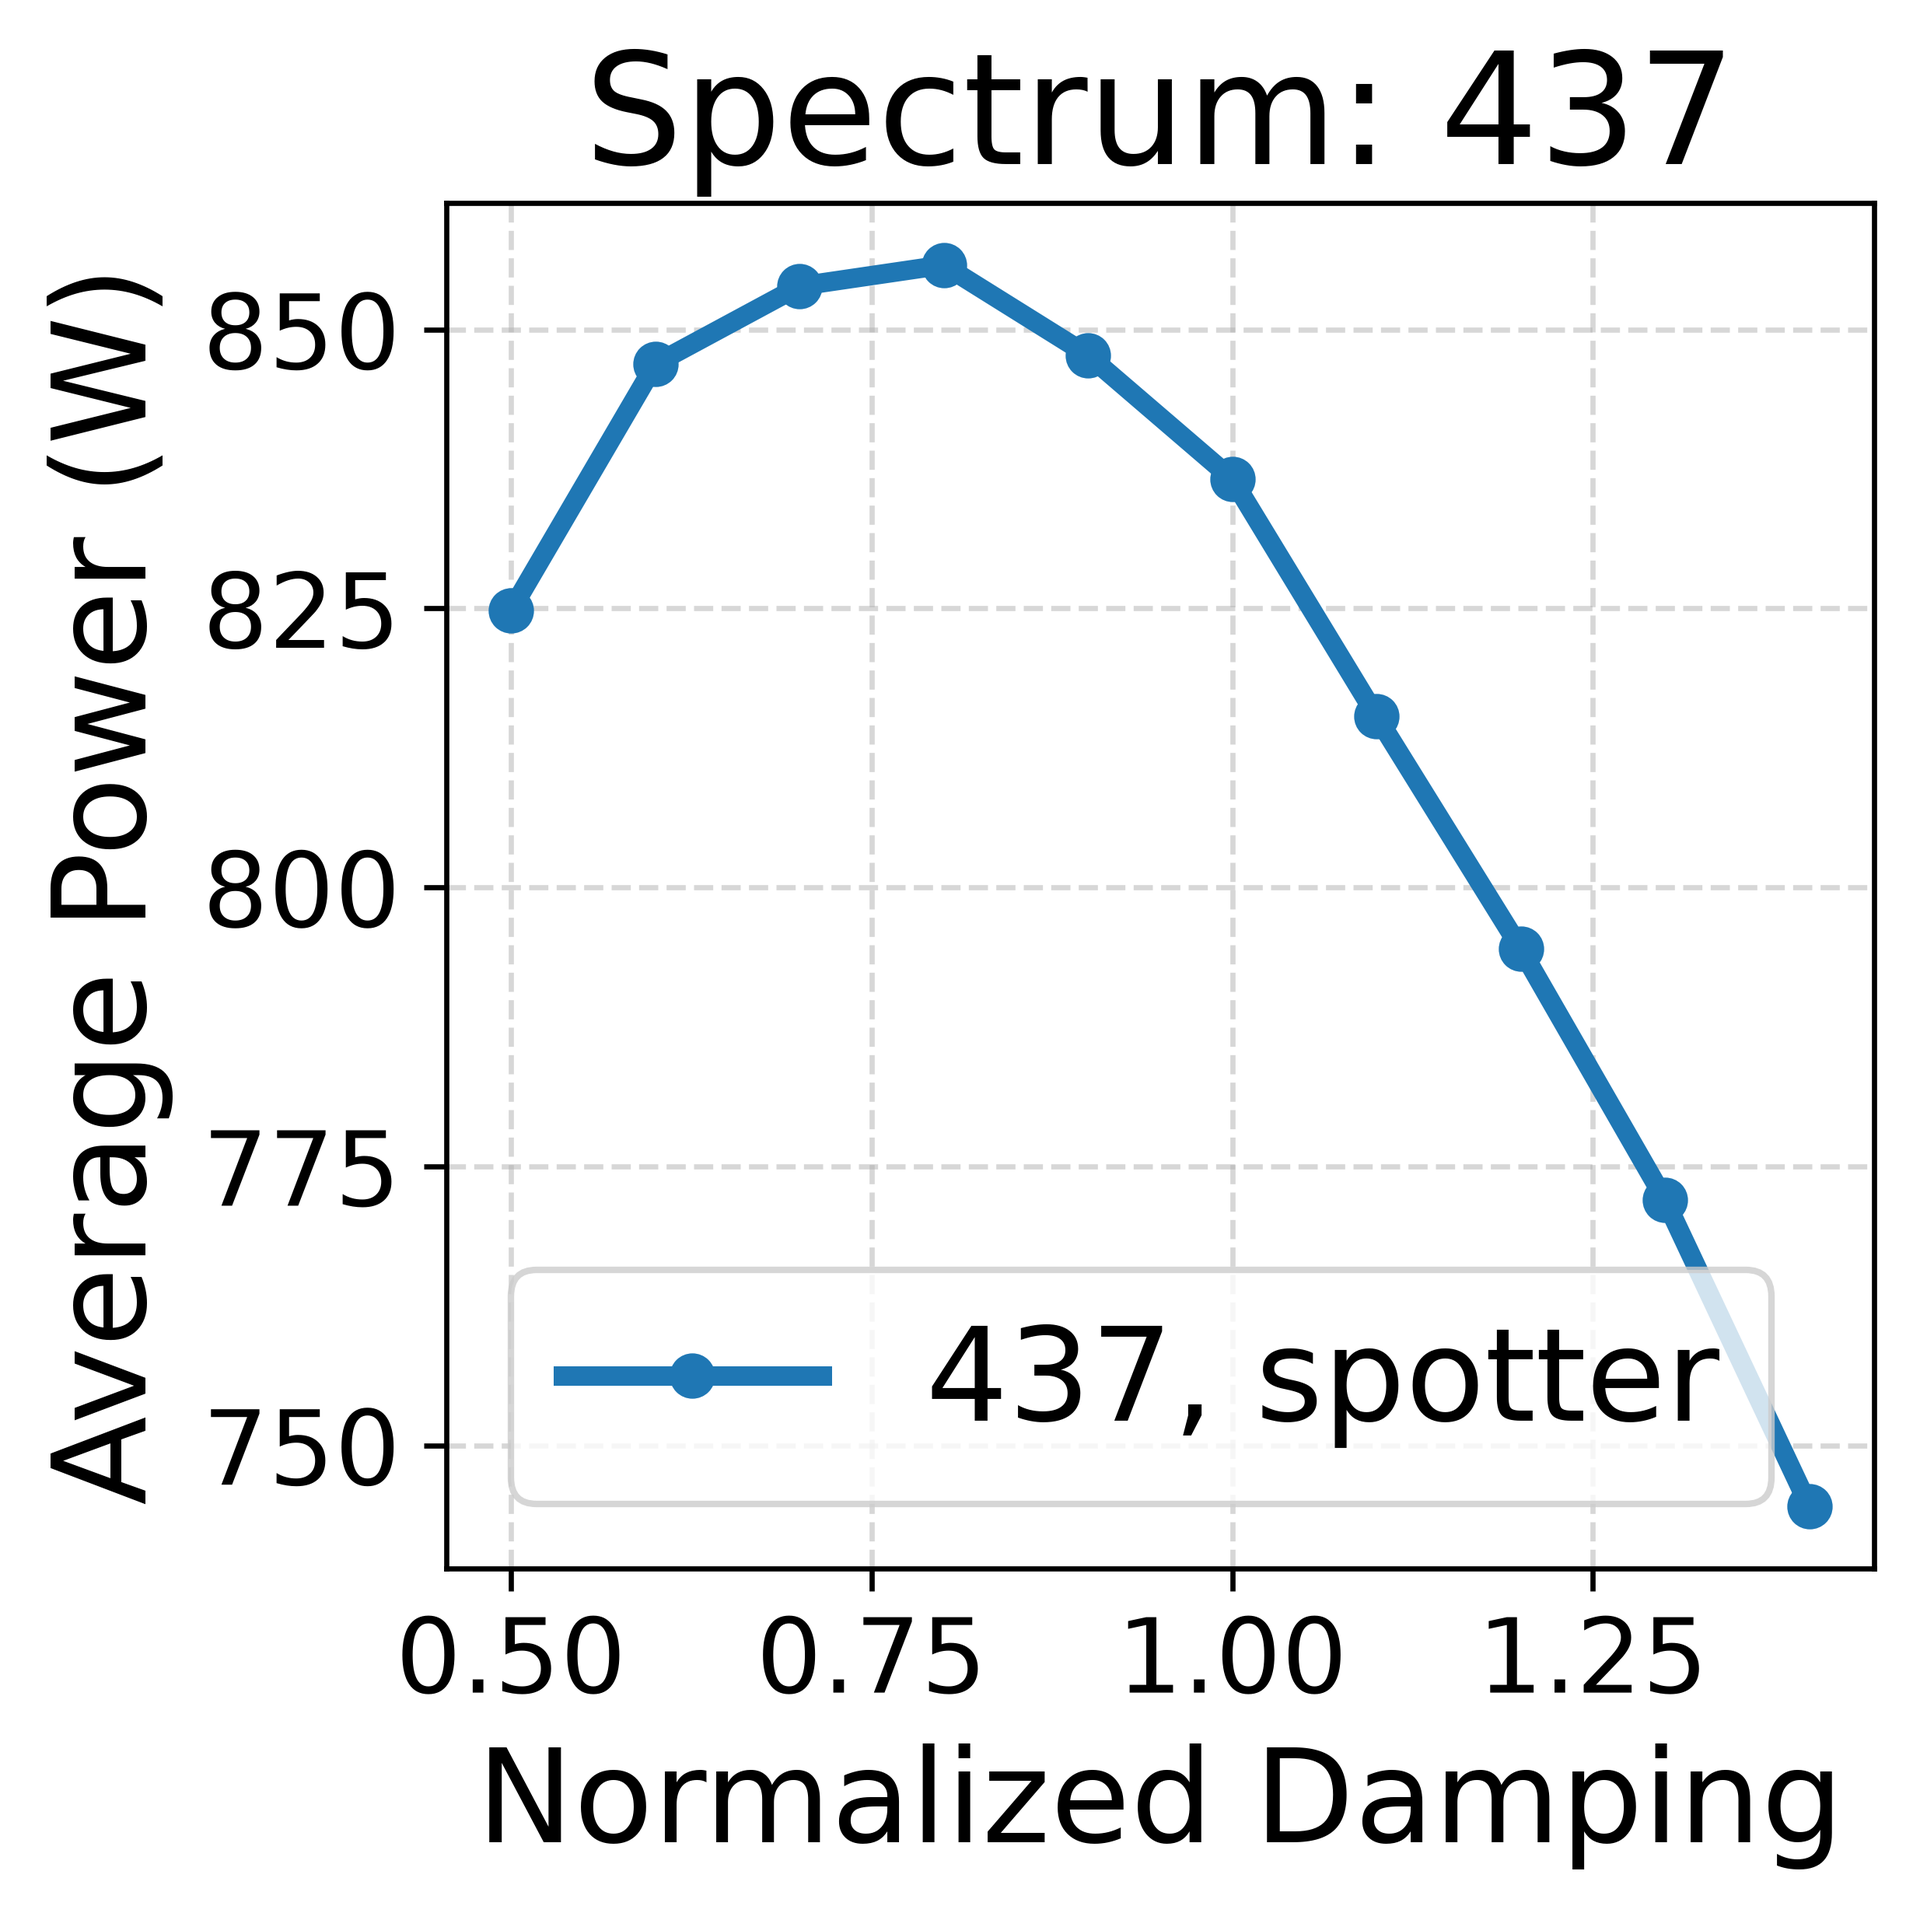
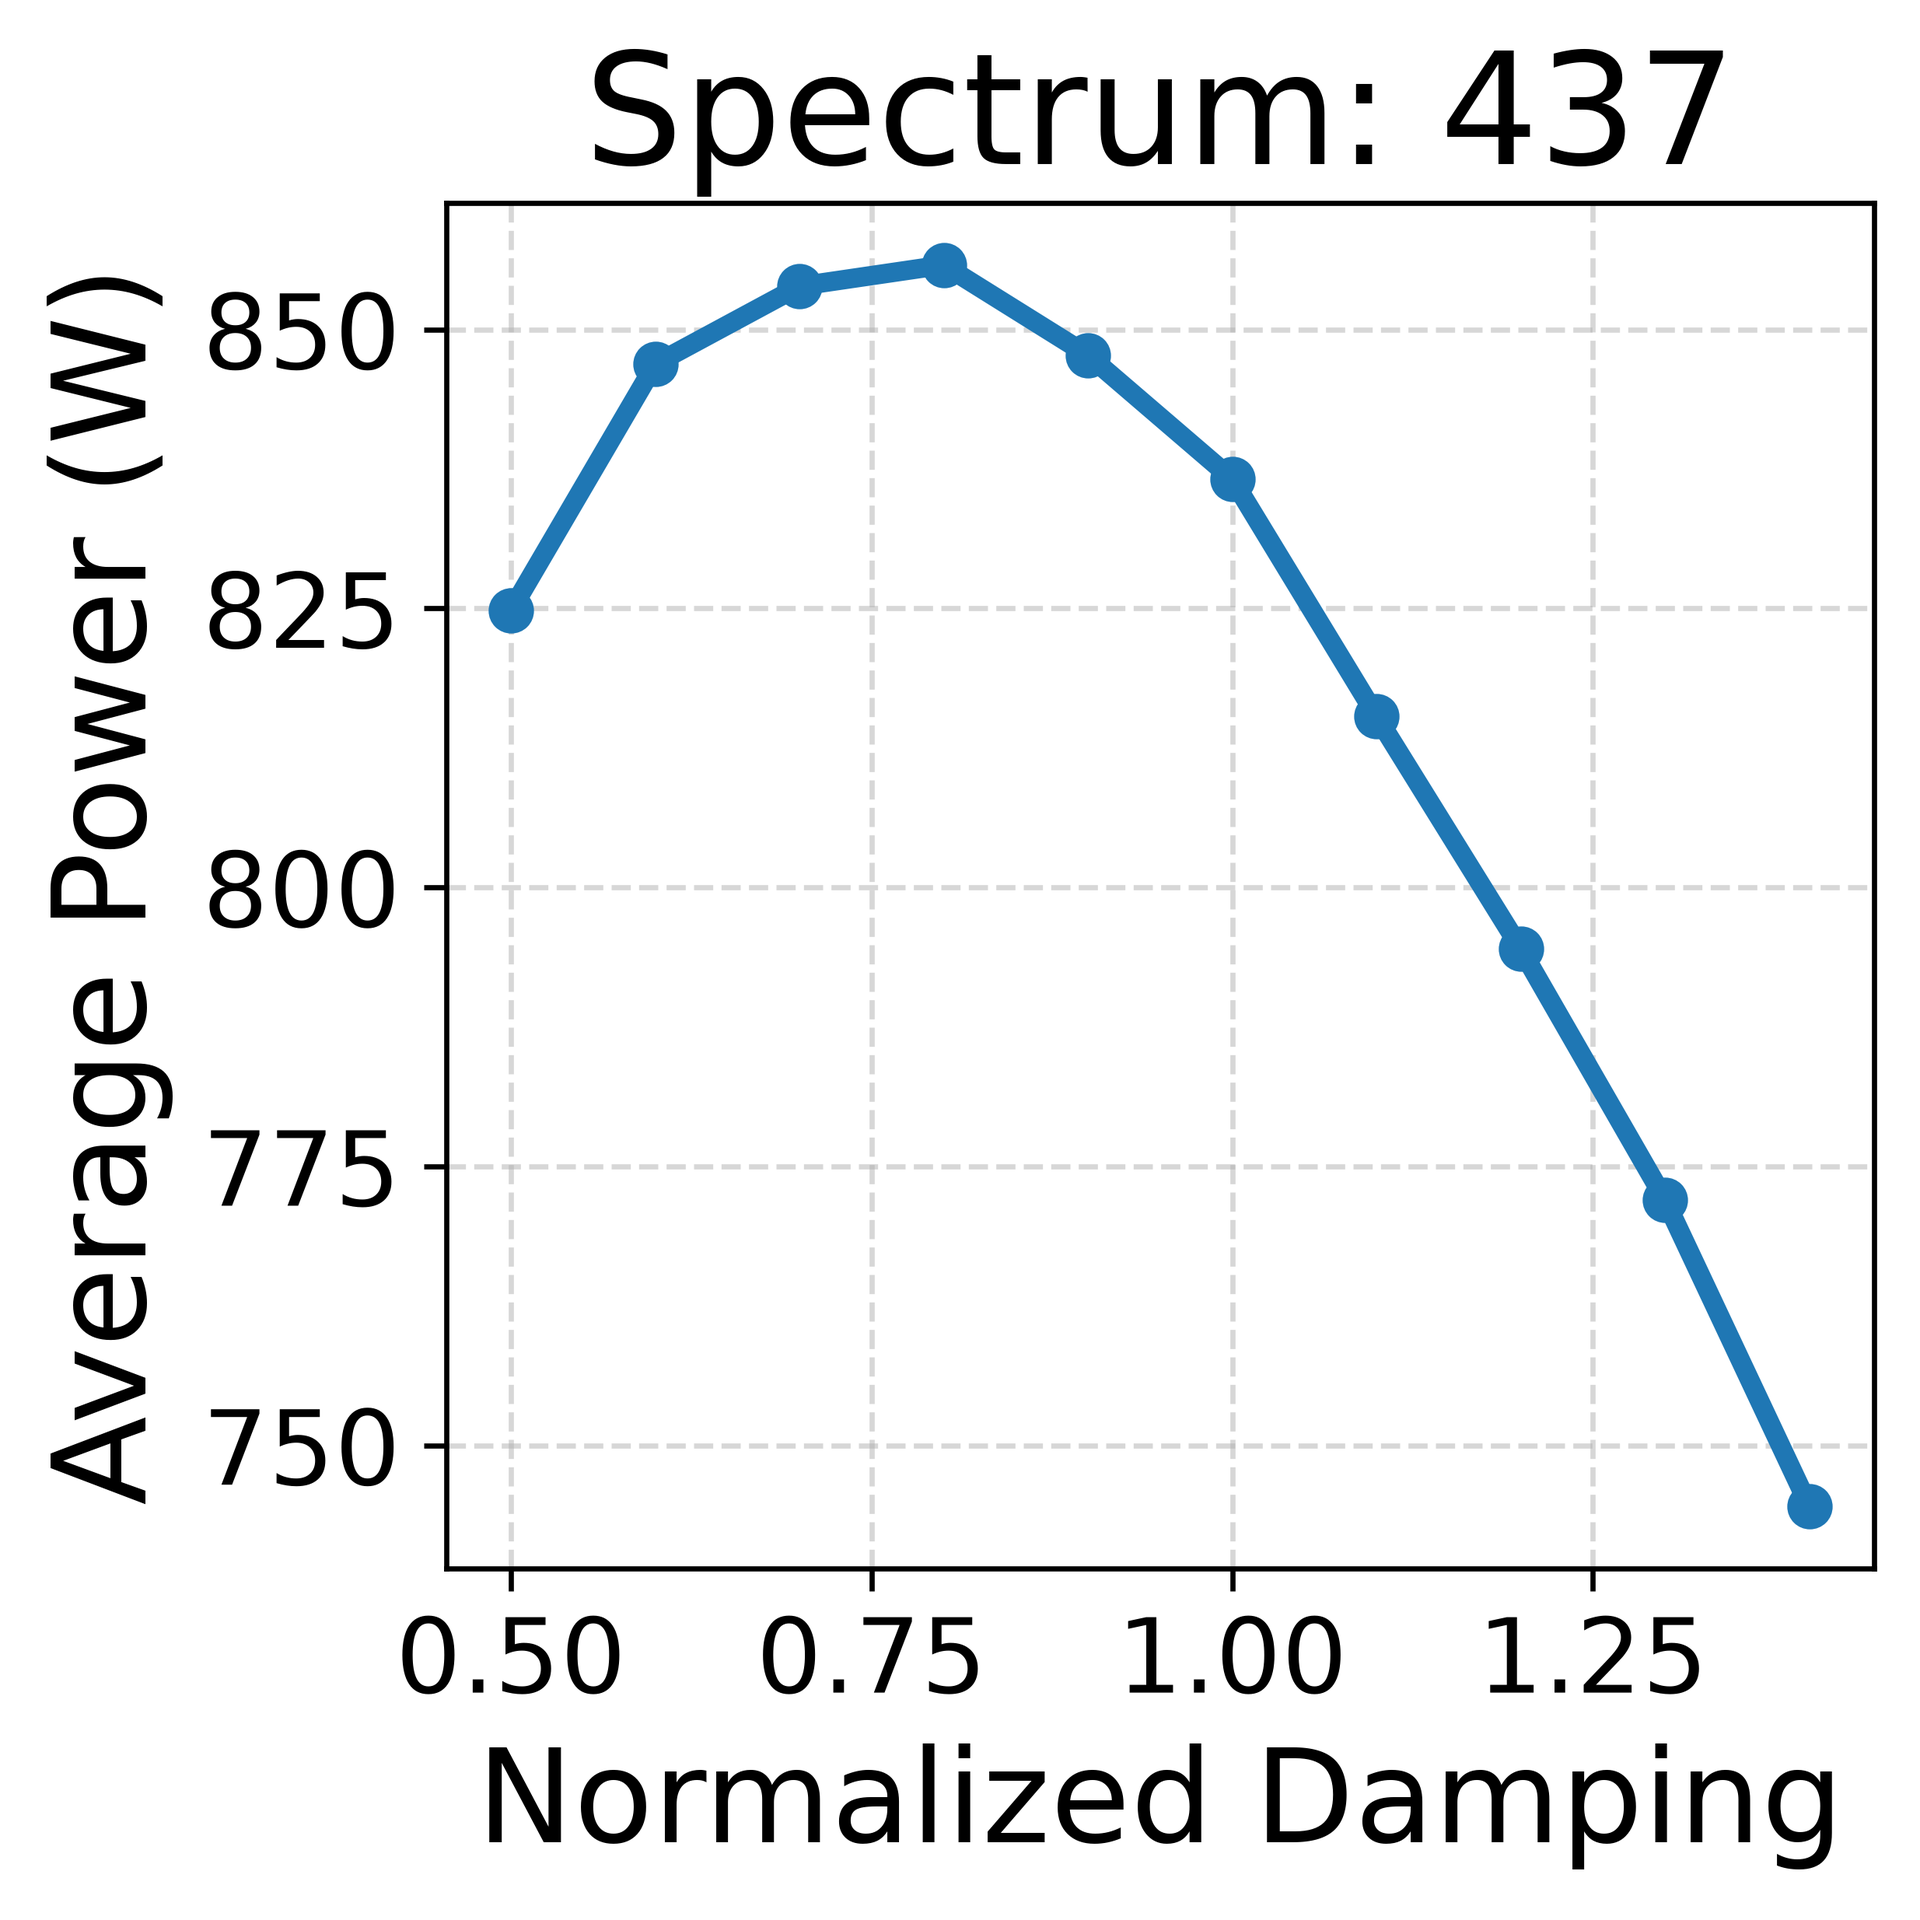
One more graph

Changed region(s): [[0.2807, 0.6549, 0.9356, 0.8109]]

diff --git a/UMERC20262/UMERC2026.py b/UMERC20262/UMERC2026.py
@@ -2291,7 +2291,7 @@ def main():
     #     "batch_name5": "batch_results_20260327142504",
     # }
     slide1dampingcurve(name='slide1dampingcurve', metric='avg_tot_power', spectrum_id=spectrum1simple, width=4, 
-                            heightper=4, title='Optimal Damping', **batches_slide2)
+                            heightper=4, legend=False, title='Optimal Damping', **batches_slide2)
 
     ##Slide2
     print('now"slide2')
